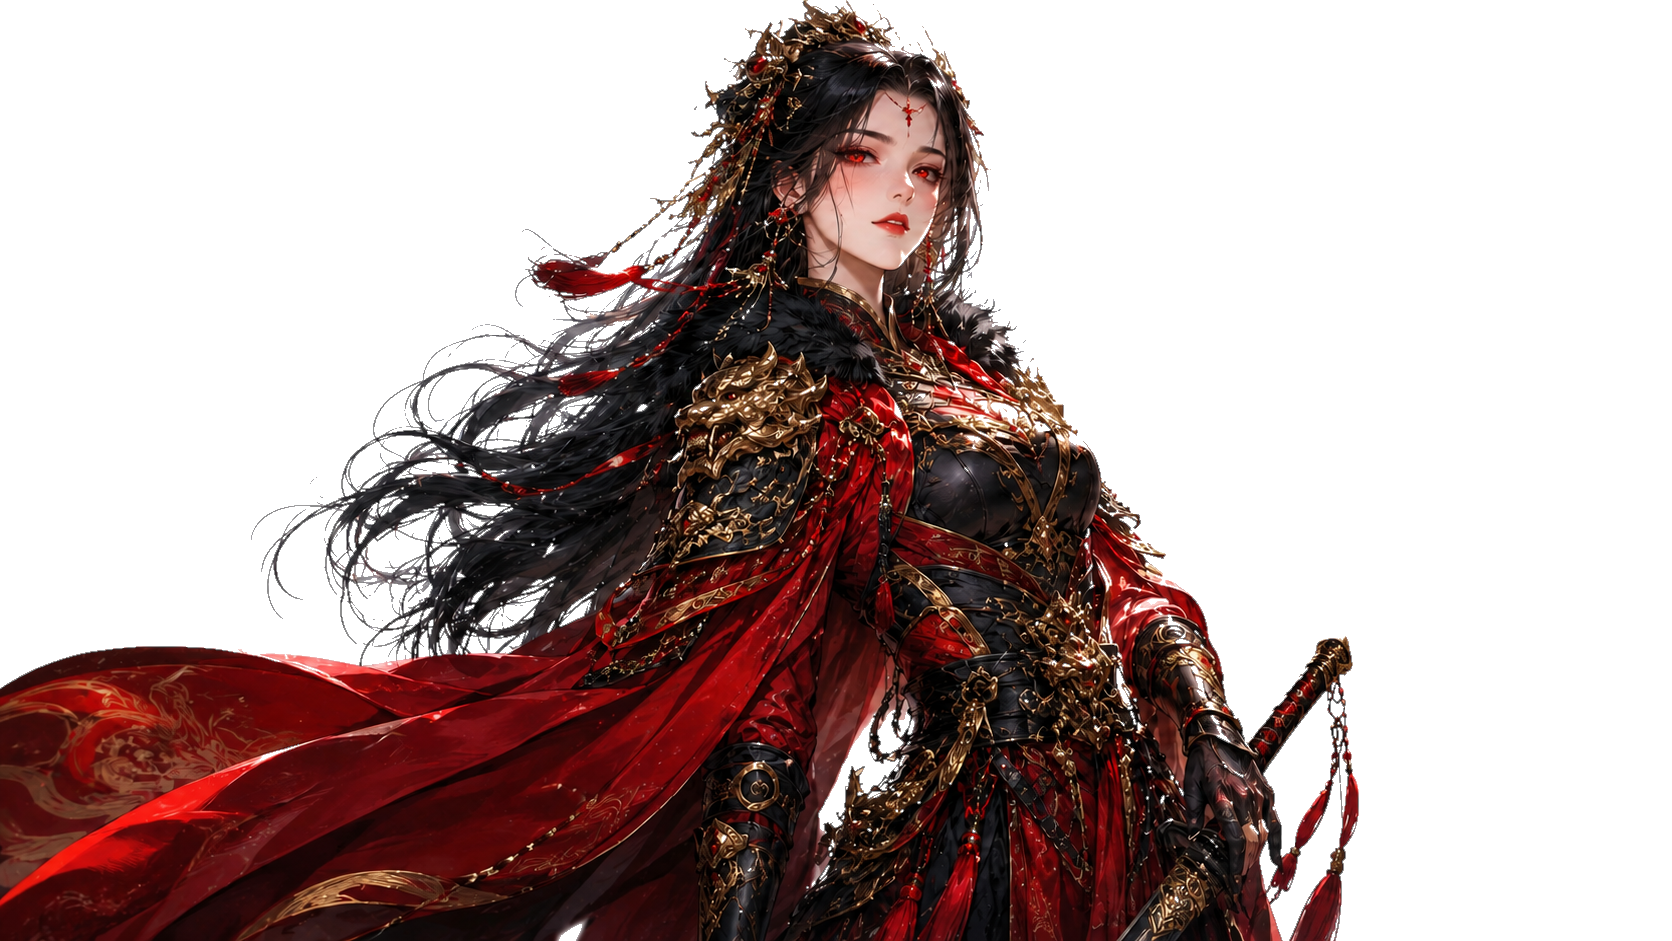
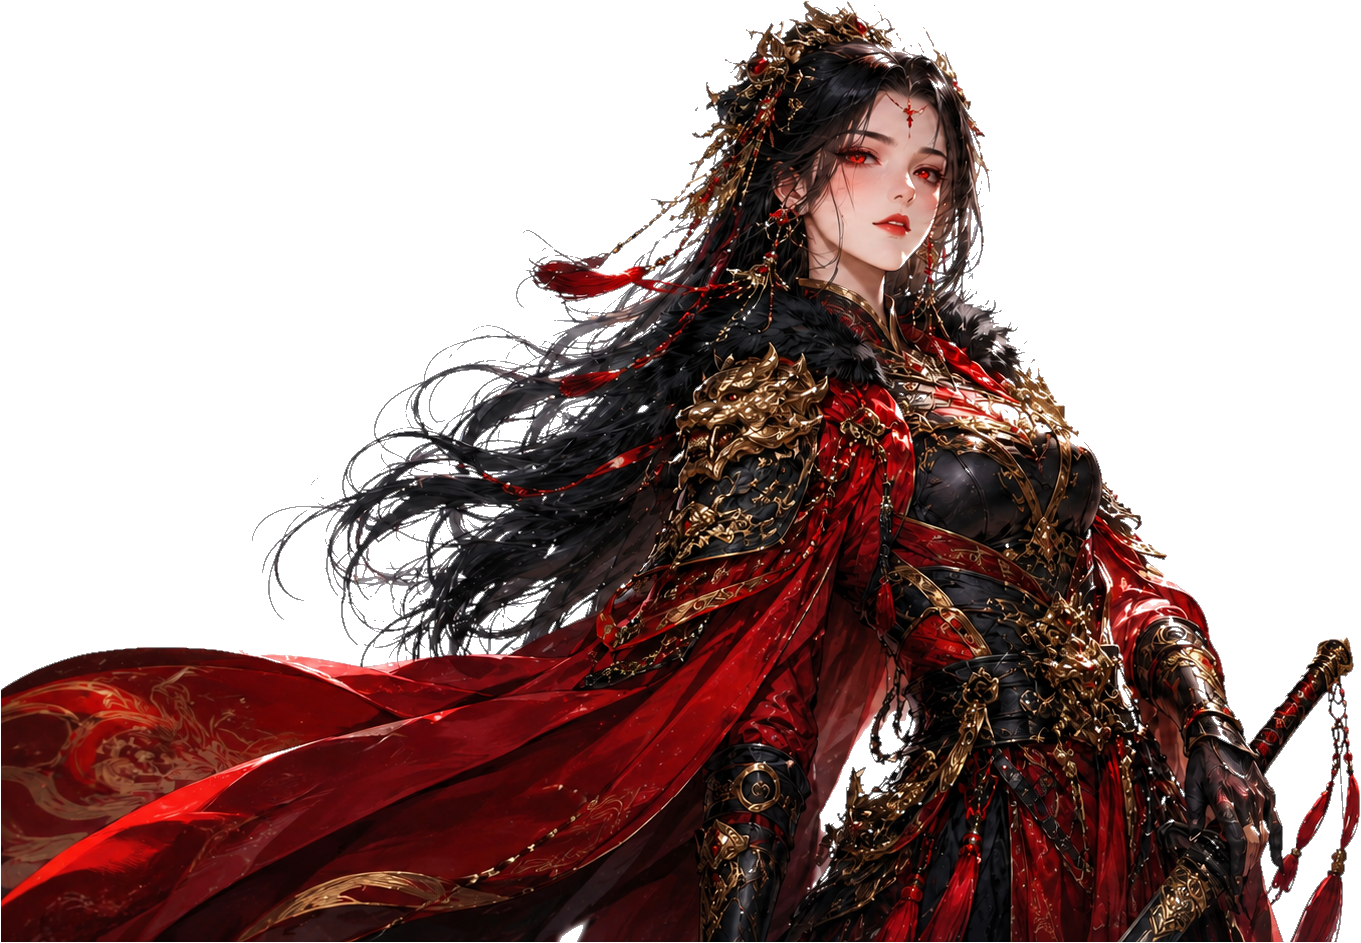
test(windows): require layered finished themes

diff --git a/windows/tests/test_theme_assets.py b/windows/tests/test_theme_assets.py
@@ -40,16 +40,30 @@ class ThemeAssetsTest(unittest.TestCase):
             with self.subTest(theme=theme_id):
                 self.assertNotIn("avatar", config)
 
-    def test_foregrounds_match_each_theme_composition(self):
-        xuanjia_root, xuanjia = self.themes["xuanjia-chijin"]
-        with Image.open(xuanjia_root / xuanjia["character"]) as foreground:
-            self.assertEqual(foreground.mode, "RGBA")
-            self.assertIsNotNone(foreground.getchannel("A").getbbox())
-
-        for theme_id in self.expected_theme_ids - {"xuanjia-chijin"}:
+    def test_every_finished_theme_has_a_real_foreground(self):
+        required_layout = {
+            "characterSize",
+            "characterPosition",
+            "characterSizeNarrow",
+            "characterPositionNarrow",
+        }
+        for theme_id, (root, config) in self.themes.items():
             with self.subTest(theme=theme_id):
-                _, config = self.themes[theme_id]
-                self.assertNotIn("character", config)
+                self.assertIn("character", config)
+                self.assertTrue(required_layout.issubset(config["layout"]))
+                foreground_path = root / config["character"]
+                self.assertLess(foreground_path.stat().st_size, 16 * 1024 * 1024)
+                with Image.open(foreground_path) as foreground:
+                    self.assertEqual(foreground.mode, "RGBA")
+                    alpha = foreground.getchannel("A")
+                    self.assertIsNotNone(alpha.getbbox())
+                    corners = [
+                        alpha.getpixel((0, 0)),
+                        alpha.getpixel((foreground.width - 1, 0)),
+                        alpha.getpixel((0, foreground.height - 1)),
+                        alpha.getpixel((foreground.width - 1, foreground.height - 1)),
+                    ]
+                    self.assertEqual(corners, [0, 0, 0, 0])
 
 
 if __name__ == "__main__":